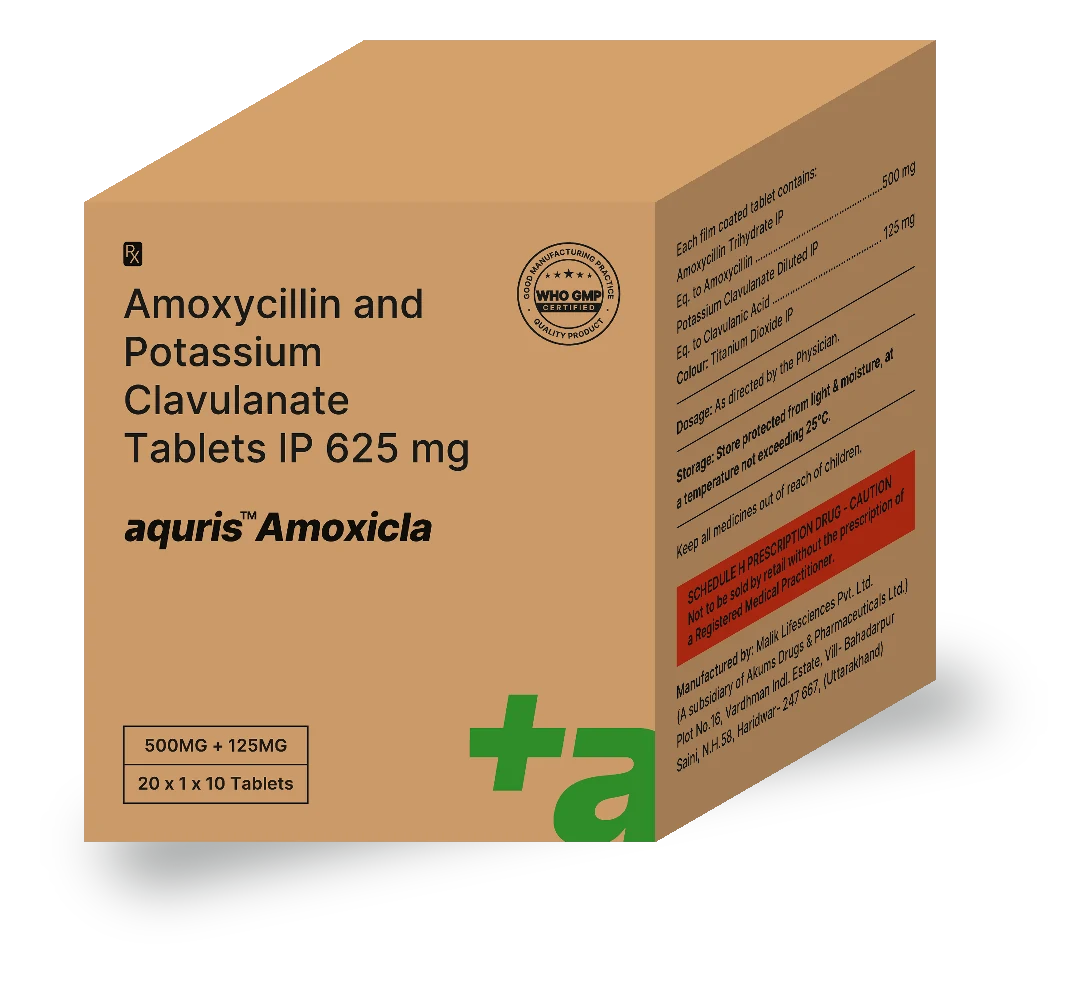
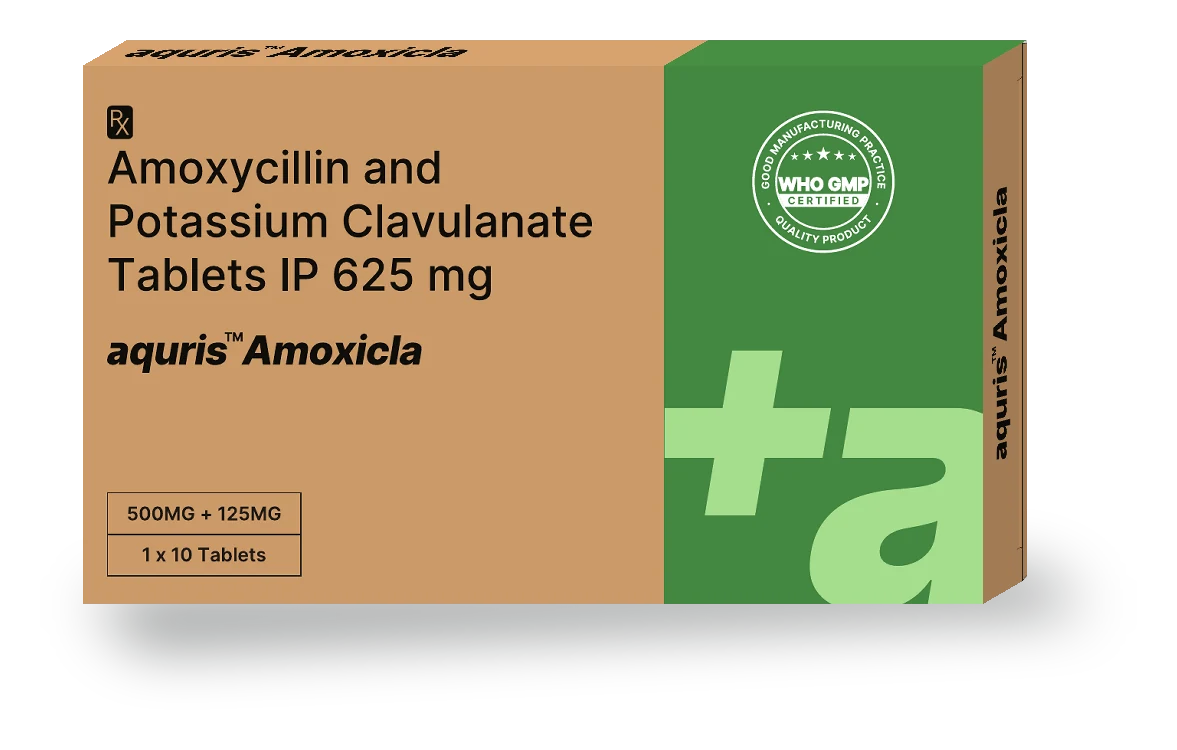
Use the AQURIS AMOXICLA mono carton for its pack shot
Pack shot rebuilt from the Malik Lifesciences mono carton (150 x 15 x 90 mm,
1 x 10 tablets) instead of the outer carton. The unit pack-shot script's
colour mask now also covers the anti-infectives green panel.

Claude-Session: https://claude.ai/code/session_01YNdkZ2f25Pdtv5V1TQM9dx

diff --git a/scripts/make-unit-packshot.py b/scripts/make-unit-packshot.py
@@ -21,8 +21,9 @@ img = Image.open(src).convert("RGB"); a = np.asarray(img).astype(int)
 r, g, b = a[..., 0], a[..., 1], a[..., 2]
 printed = ((r > 150) & (r < 225) & (g > 110) & (g < 185) & (b > 60) & (b < 150) & (r - b > 45)) \
     | ((b > 150) & (r < 90) & (g > 90)) | ((b > 70) & (r < 70) & (g < 90)) \
-    | ((r > 170) & (g < 90) & (b < 110)) | ((r > 200) & (g > 110) & (g < 200) & (b > 150))
-# kraft (incl. the lighter Bone Plus tan) | brand blue | navy | therapy red | pink "+a" tint
+    | ((r > 170) & (g < 90) & (b < 110)) | ((r > 200) & (g > 110) & (g < 200) & (b > 150)) \
+    | ((g > r + 40) & (g > b + 40))
+# kraft (incl. the lighter Bone Plus tan) | brand blue | navy | therapy red | pink "+a" tint | anti-infectives green
 Lp, Wp, Hp = (round(v * PX) for v in (L, W, H))
 
 # main column: the x-range of width L with the most printed pixels
